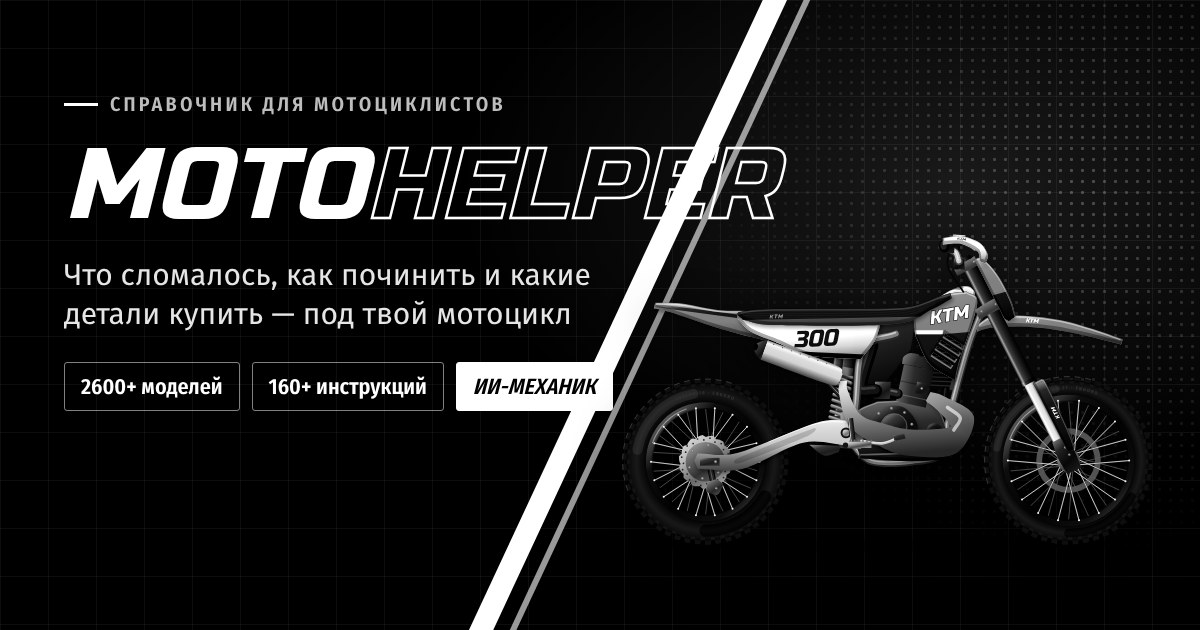
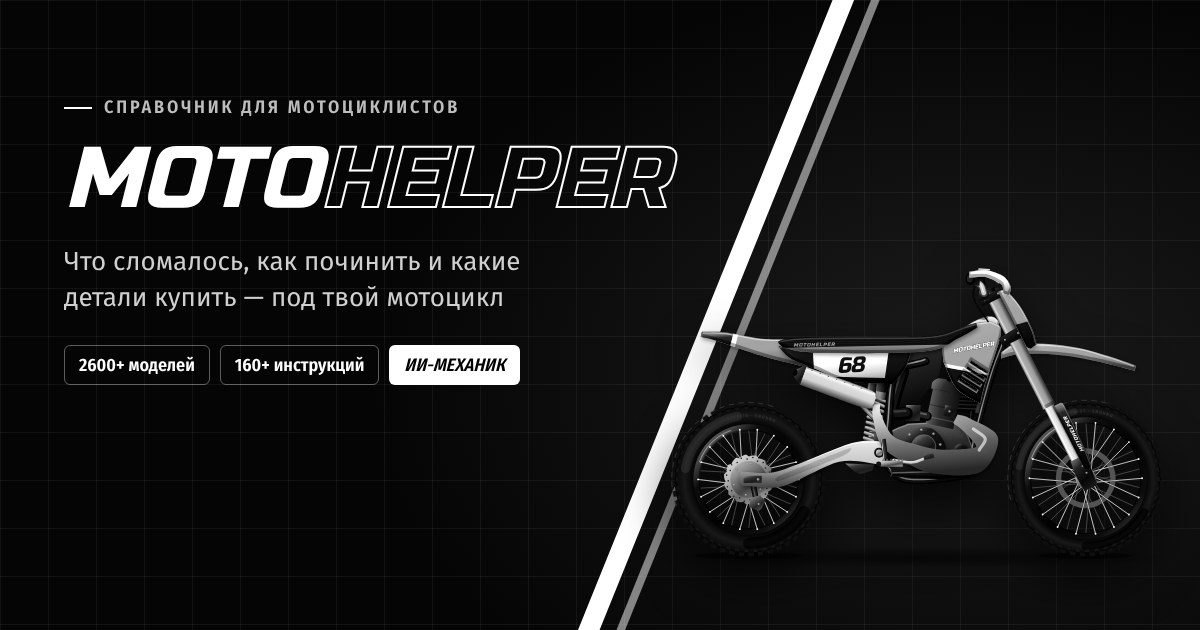
Ровно и чётко: без срезанных углов, 3D-наклонов и размытия; новое превью ссылки
- срезанный угол маской (clip-path) обрезал рамку у шапок и белых кнопок — углы выглядели оборванными
- наклон мотоцикла при наведении и «пустой» 3D-слой у карточек размывали картинку и текст
- заголовки и кнопки в шапках больше не сдвигаются за курсором
- одна тонкая рамка у всех карточек, одинаковые скругления; плитки на главной заполняют ряд
- полосы шапки не заходят на рамку; резервная копия во всю ширину
- превью ссылки (og.jpg): полоса больше не перечёркивает название, на мотоцикле — наклейки MotoHelper

Claude-Session: https://claude.ai/code/session_01JHTibMrXRmSMnom41zkvX1

diff --git a/css/app.css b/css/app.css
@@ -2399,3 +2399,32 @@ code { background: #141414 !important; color: #fff; }
 /* всплывашка: над нижним меню и корзиной, не закрывает кнопки «Назад» и выбор мотоцикла; сквозь неё можно нажимать */
 .toast { top: auto !important; bottom: calc(150px + env(safe-area-inset-bottom, 0px)) !important; pointer-events: none; }
 @media (min-width: 980px) { .toast { bottom: 32px !important; } }
+
+/* ===== v60 «Ровно»: без срезанных углов, наклонов и параллакса — всё стоит ровно и рисуется чётко ===== */
+/* срезанный угол маской отрезал рамку — углы выглядели оборванными */
+.hero, .phero, .ai-head, .btn.primary, .hero .btn.primary { clip-path: none !important; }
+.btn.primary, .hero .btn.primary { box-shadow: none !important; }
+/* 3D-наклон и «пустой» 3D-слой размывали текст и мотоцикл */
+.hero, .phero, .panel, .act, .guide, .tcard, .cause, .gb-item, .vmax, .photo-card { transform: none !important; }
+.act:hover, .guide:hover, .tcard:hover { transform: translateY(-2px) !important; }
+.rv { transform: translateY(14px) !important; }
+.rv.in { transform: none !important; }
+.hero .home-title, .phero h1, .hero-stats, .phero-stats, .hero-cta, .phero-act, .hero-k, .hero-sub { transform: none !important; }
+.phero-ico { transform: rotate(-12deg) !important; }
+.hero-glow { translate: none !important; }
+.hero-bike:hover svg { transform: none !important; }
+/* карточки: одна тонкая рамка вместо толстой полосы слева и светящихся линий */
+.panel, .act, .guide, .g-steps li, .plist li, .season-home, .unit-tile, .tcard, .issues li, .cause, .symptom, .adj-block, .gb-item, .vmax {
+  border: 1px solid rgba(255,255,255,.14) !important; border-radius: 8px !important; box-shadow: none !important; }
+.panel::before, .panel::after { display: none !important; }
+.act:hover, .guide:hover, .tcard:hover { border-color: rgba(255,255,255,.34) !important; }
+.hero, .phero, .ai-head { border-radius: 8px !important; }
+.btn, .chip, .seg, .tabs, .site-search input, .jw-chip, .tick-btn { border-radius: 8px !important; }
+.act > .ico { transform: none !important; box-shadow: none !important; }
+/* плитки на главной: последняя строка растягивается, без одинокой плитки */
+@media (min-width: 900px) { .actions4.home-acts { display: flex !important; flex-wrap: wrap; } .actions4.home-acts > .act { flex: 1 1 220px; } }
+/* полосы шапки не заходят на рамку; без полупрозрачного значка, который обрезался у края */
+.hero, .phero, .ai-head { background-clip: padding-box !important; }
+.phero-ico { display: none !important; }
+/* низ главной: блок резервной копии во всю ширину, как карточки выше */
+.foot { max-width: none !important; }

diff --git a/sw.js b/sw.js
@@ -2,7 +2,7 @@
    Онлайн: всегда свежая версия с сервера (и она же сохраняется в кэш).
    Без сети: сайт открывается из кэша. ИИ-механику интернет нужен всегда.
    При изменении списка файлов увеличь VERSION. */
-const VERSION = "mh-v16";
+const VERSION = "mh-v17";
 const CORE = [
   "./", "index.html", "manifest.webmanifest",
   "css/app.css", "js/data.js", "js/bike-art.js", "js/app.js", "js/motion.js", "js/eggs.js", "js/engine-worklet.js",
